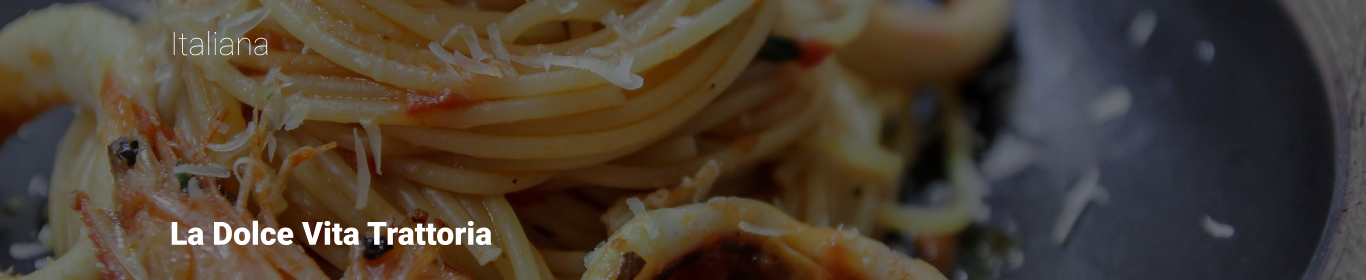
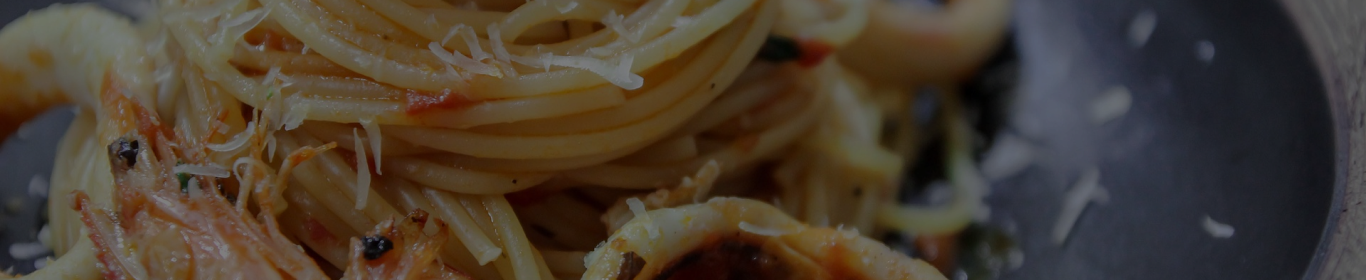
commitando novamente

Changed region(s): [[0.123, 0.7714, 0.369, 0.8857], [0.123, 0.1143, 0.2152, 0.2]]

diff --git a/src/components/MenuList/index.tsx b/src/components/MenuList/index.tsx
@@ -8,7 +8,7 @@ import restaurantes from '../../assets/images/Restaurantes.png'
 import carrinho from '../../assets/images/carrinho.png'
 
 
-import { Group, Header, Img } from "./styles"
+import { Group, Header, Header2, Titulo1, Titulo2 } from "./styles"
 
 
 export type Props = {
@@ -33,7 +33,10 @@ const MenuList = ({prato}: Props) => {
     </Link>
     <img className="imgDir" src={carrinho} alt="carrinho" />
     </Header>
-    <Img src={apresentacao} alt="imagem massa" />
+    <Header2 style={{backgroundImage: `url(${apresentacao})`}}>
+      <Titulo1>Italiana</Titulo1>
+      <Titulo2>La Dolce Vita Trattoria</Titulo2>
+    </Header2>
     <Group>
       {prato.map((prato) => (
         <List

diff --git a/src/components/Conteudo/styles.ts b/src/components/Conteudo/styles.ts
@@ -6,8 +6,8 @@ import styled from "styled-components";
 
 export const Card = styled.div`
   width: 472px;
-  height: 410px;
-  margin-top: 48px;
+  height: 398px;
+  margin-top: 80px;
   border: 1px solid #E66767;
   position: relative;
 
@@ -19,7 +19,7 @@ export const Card = styled.div`
   .conteudo {
     width: 456px;
     font-size: 14px;
-    margin-top: 46px;
+    margin-top: 16px;
     margin-left: 8px;
     font-weight: 400px;
   }
@@ -40,9 +40,9 @@ img {
 `
 
 export const Botao = styled.div`
+  margin-top: 30px;
   margin-left: 8px;
-  margin-top: 16px;
-  margin-bottom: 8px;
+
 `
 export const Button = styled(Link)`
   background-color: #E66767;

diff --git a/src/components/ConteudoList/styles.ts b/src/components/ConteudoList/styles.ts
@@ -3,7 +3,7 @@ import styled from "styled-components";
 export const Card1 = styled.div`
     width: 320px;
     height: 338px;
-    margin-top: 40px;
+    margin-top: 54px;
     background-color: #E66767;
 
     h2 {
@@ -17,6 +17,7 @@ export const Card1 = styled.div`
       font-size: 14px;
       line-height: 22px;
       margin: 8px 8px;
+      font-weight: 400;
     }
 `
 
@@ -33,8 +34,9 @@ export const Button1 = styled.button`
   height: 24px;
   background-color: #FFEBD9;
   border: none;
-  margin: 2px 8px 8px;
+  margin: 2px 8px;
   cursor: pointer;
+  font-weight: 700;
 `
 
 export const StyleModal = styled.div`

diff --git a/public/index.html b/public/index.html
@@ -27,7 +27,7 @@
     <title>Efood-seu restaurante digital</title>
     <link rel="preconnect" href="https://fonts.googleapis.com">
     <link rel="preconnect" href="https://fonts.gstatic.com" crossorigin>
-    <link href="https://fonts.googleapis.com/css2?family=Roboto&display=swap" rel="stylesheet">
+    <link href="https://fonts.googleapis.com/css2?family=Roboto:ital,wght@0,100;0,300;0,400;0,500;0,700;0,900;1,100;1,300;1,400;1,500;1,700;1,900&display=swap" rel="stylesheet">
   </head>
   <body>
     <noscript>You need to enable JavaScript to run this app.</noscript>

diff --git a/src/components/MenuList/styles.ts b/src/components/MenuList/styles.ts
@@ -20,7 +20,30 @@ export const Group = styled.div`
   gap: 32px;
 `
 
-export const Img = styled.img`
-  width: 100%;
+export const Header2 = styled.header`
+  background-repeat: no-repeat;
+  background-size: cover;
+  height: 280px;
+
+
+`
+
+export const Titulo1 = styled.h1`
+  position: relative;
+  left: 170px;
+  top: 25px;
+  color: #fff;
+  font-weight: 100;
+  font-size: 32px;
+  width: 101px;
+`
+
+export const Titulo2 = styled.h1`
+  position: relative;
+  left: 170px;
+  top: 154px;
+  color: #fff;
+  width: 676px;
+  font-weight: 900;
 `
 

diff --git a/src/styles.ts b/src/styles.ts
@@ -8,8 +8,4 @@ export const Global = createGlobalStyle`
     font-family: 'Roboto', sans-serif;
     color: #E66767;
   }
-
-  body {
-    background-color: #FFFDE7;
-  }
 `
